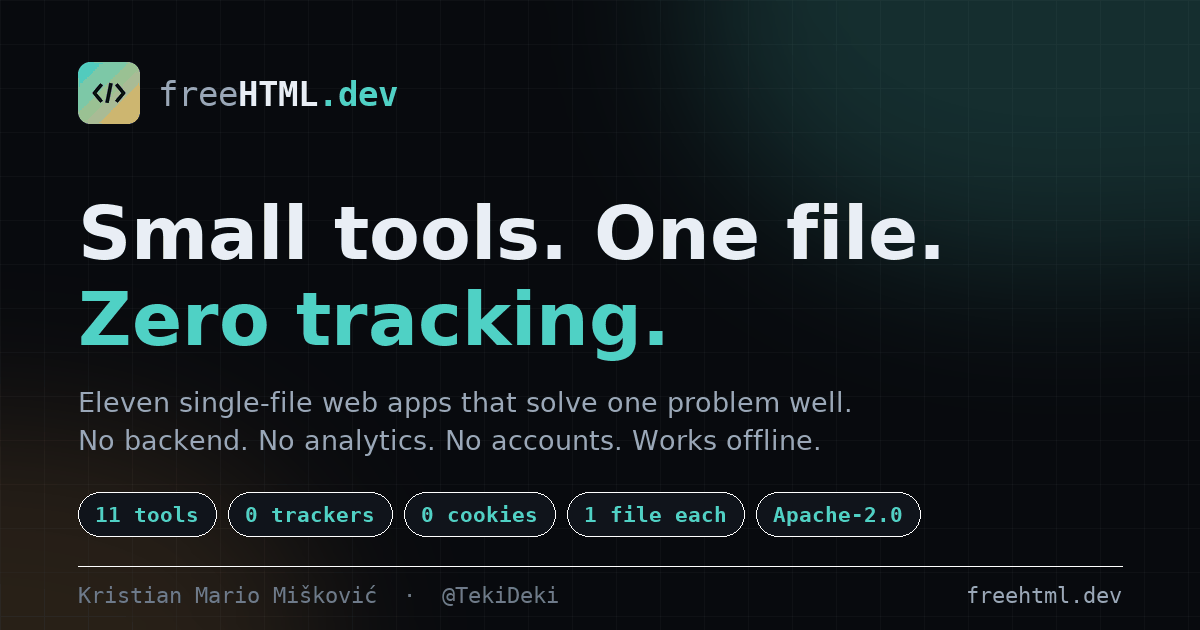
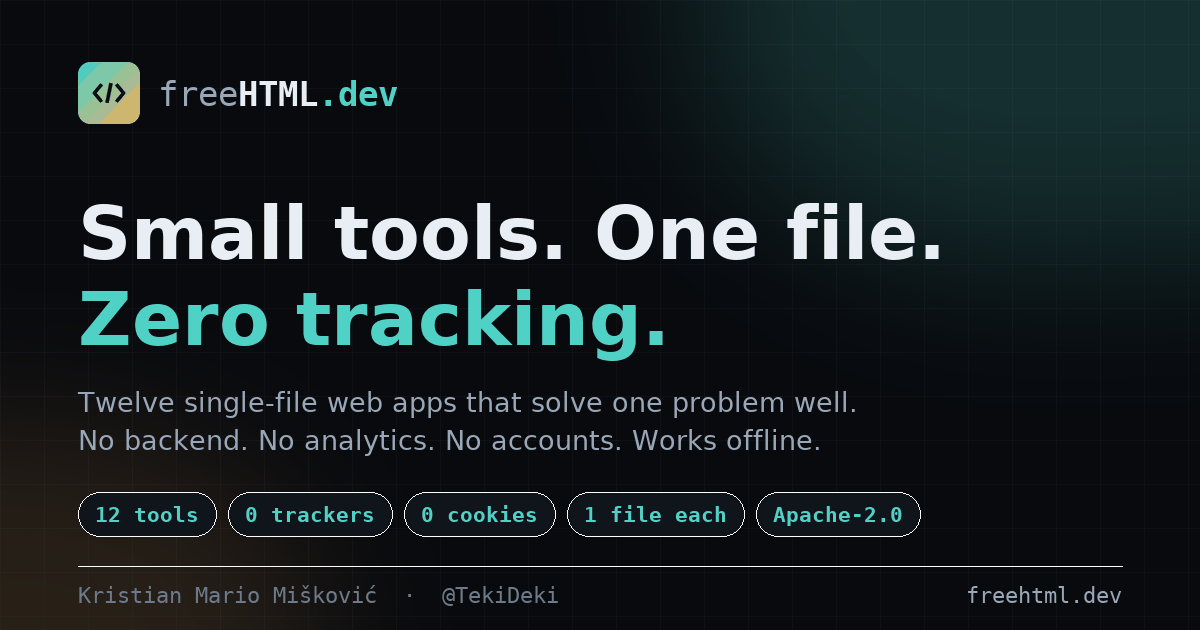
Tidy the hub: accurate counts, clean links, typography, no infra details
- README: repair two truncated license links and an en dash
- OG card and render script: "Eleven" / "11 tools" -> "Twelve" / "12 tools"
  (the hub lists 12 tools); only og.png changes, icons are byte-identical
- Remove long dashes from 404.html, _headers and the Cloudflare guide;
  the test suite now fails on U+2014 in README, site/ and docs/
- Cloudflare guide rewritten as a generic runbook: server IP, hosting
  provider, cPanel details and the dated DNS log are replaced with
  placeholders
- docs/unit-atlas.md: state what the hub suite actually checks; the
  787-case converter suite lives in TekiDeki/Unit-Converter; the SW shell
  list includes icons and the OG card
- CI: drop a branch name that belongs to another repository

Changed region(s): [[0.0617, 0.6032, 0.7092, 0.6635]]

diff --git a/site/404.html b/site/404.html
@@ -3,8 +3,8 @@
 <head>
 <meta charset="utf-8">
 <meta name="viewport" content="width=device-width, initial-scale=1">
-<title>404 — this file does not exist · freeHTML.dev</title>
-<meta name="description" content="404 on freeHTML.dev. Nothing here — but the tools are one click away.">
+<title>404 - this file does not exist · freeHTML.dev</title>
+<meta name="description" content="404 on freeHTML.dev. Nothing here - but the tools are one click away.">
 <meta name="robots" content="noindex">
 <link rel="icon" href="/assets/favicon.svg" type="image/svg+xml">
 <script>

diff --git a/scripts/render-assets.py b/scripts/render-assets.py
@@ -152,12 +152,12 @@ def og() -> Image.Image:
 
     # lede
     f_p = font("DejaVuSans.ttf", 27)
-    d.text((78, 386), "Eleven single-file web apps that solve one problem well.", font=f_p, fill=MUTED)
+    d.text((78, 386), "Twelve single-file web apps that solve one problem well.", font=f_p, fill=MUTED)
     d.text((78, 424), "No backend. No analytics. No accounts. Works offline.", font=f_p, fill=MUTED)
 
     # pills
     f_pill = font("DejaVuSansMono-Bold.ttf", 21)
-    pills = ["11 tools", "0 trackers", "0 cookies", "1 file each", "Apache-2.0"]
+    pills = ["12 tools", "0 trackers", "0 cookies", "1 file each", "Apache-2.0"]
     x = 78
     y = 492
     for label in pills:

diff --git a/docs/cloudflare-pages-deploy.md b/docs/cloudflare-pages-deploy.md
@@ -1,142 +1,115 @@
-# freehtml.dev → Cloudflare Pages · ghid de deploy
+# freeHTML.dev - Cloudflare, ghid de deploy
 
-Ghid pentru mutarea sitului din `site/` pe Cloudflare Pages, cu domeniul `freehtml.dev`.
-Tot ce e mai jos e verificat pe DNS-ul public la data de **2026-10-15**.
+Ghid pentru publicarea sitului din `site/` pe Cloudflare, pentru domeniul `freehtml.dev`.
 
----
+Valorile specifice infrastructurii (IP-uri, furnizorul de hosting, serverul de e-mail) nu sunt scrise în repository. Acolo unde apar, folosește placeholderele din tabelul de mai jos.
 
-## 0. Starea reală a domeniului (înainte să atingi ceva)
+| Placeholder | Ce reprezintă |
+|---|---|
+| `<IP-MAIL>` | adresa IPv4 a serverului de e-mail, cea din înregistrarea `A mail` din zona veche |
+| `<NS-VECHI-1>`, `<NS-VECHI-2>` | nameserverele actuale ale domeniului, la registrator |
+| `<NS-CF-1>`, `<NS-CF-2>` | nameserverele primite de la Cloudflare la adăugarea zonei |
 
-| Ce | Valoare curentă | Ce înseamnă |
-|---|---|---|
-| Nameservere | `ns3.extreme-prohosting.com`, `ns4.extreme-prohosting.com` | Zona **NU** e încă pe Cloudflare. Domeniul e administrat de extreme-prohosting. |
-| `A @` | `176.9.52.113` (Hetzner) | Un server de hosting clasic răspunde acum pe domeniu. |
-| `A mail` | `176.9.52.113` | Același server. |
-| `MX` | `0 freehtml.dev` | **Emailul e live pe acest domeniu**, servit de același server. |
-| `TXT` (SPF) | `v=spf1 +a +mx +ip4:176.9.52.113 ~all` | Există configurare de email (SPF). Verifică și `_dmarc` / `default._domainkey` în panoul vechi. |
-
-**Consecința importantă:** migrarea nameserverelor nu e doar „pun situl pe Cloudflare”,
-ci o mutare care poate **opri emailul** dacă sari peste pasul 2. Fă pașii în ordine.
+**Regula de bază:** emailul se mută înainte de nameserverele. Fă pașii în ordinea de mai jos. Dacă sari peste pasul 2, migrarea poate opri e-mailul domeniului.
 
 ---
 
-## UPDATE 2026-10-15 — zona e ACTIVĂ pe Cloudflare. Trei lucruri de făcut acum
+## 0. Inventar înainte de orice modificare
 
-Verificat din DNS-ul public după activare:
+Înainte să atingi ceva, notează înregistrările existente din panoul DNS actual:
 
-| Înregistrare | Ce am găsit | Corect |
-|---|---|---|
-| `SOA` | `carl.ns.cloudflare.com` | ✅ zona e activă (NS-ul la parent `.dev` se propagă încă câteva ore — normal) |
-| `A mail` | `104.21.38.92` / `172.67.221.122` = **IP-uri de proxy Cloudflare** | ❌ înregistrarea `mail` a fost importată **proxată (nor portocaliu)**. SMTP-ul nu merge prin proxy → **pune-o DNS-only (nor gri)** |
-| `MX` | `0 freehtml.dev` (apex, proxat) | ❌ schimbă-l în `mail.freehtml.dev`, prioritate `0` |
-| `TXT` SPF | `v=spf1 +a +mx +ip4:176.9.52.113 ~all` | ✅ rămâne valid și după corecții (`+mx` și `+ip4` acoperă serverul) |
-| `TXT _dmarc` | `v=DMARC1; p=none;` | ✅ importat corect |
-| `TXT default._domainkey` | cheia DKIM completă | ✅ importat corect — emailul semnat continuă să funcționeze |
-| `A @` | proxat, încă `176.9.52.113` dedesubt | ⏳ se înlocuiește cu CNAME-ul Pages la pasul 6 |
-
-**De făcut în dashboard, în ordinea asta (2 minute):**
-
-1. **DNS → Records → `mail`** → Edit → **Proxy status: OFF (DNS only)** → Save.
-   Trebuie să rezolve din nou la `176.9.52.113`, nu la IP-uri Cloudflare.
-2. **DNS → Records → `MX`** → Edit → Mail server: `mail.freehtml.dev`, prioritate `0` → Save.
-3. Test: `dig MX freehtml.dev +short` → `0 mail.freehtml.dev`;
-   `dig A mail.freehtml.dev +short` → `176.9.52.113`. Trimite-ți un email de test
-   (Gmail → tine) și confirmă livrarea.
-
-Abia după ce emailul e verde treci la pasul 5 (proiectul Pages) și pasul 6 (custom domain) —
-pentru că pasul 6 înlocuiește `A @` cu un CNAME proxat, moment din care un MX spre apex
-ar fi fost oricum imposibil.
-
-### ✅ Rezultat verificat (2026-10-15, seara)
-
-Corecțiile aplicate: `mail` = A `176.9.52.113` DNS-only (TTL 300), MX `@` → `mail.freehtml.dev`
-prioritate 0, cele 9 subdomenii cPanel trecute pe DNS-only, SSL/TLS = Full.
-**Email de test livrat cu succes** → calea de mail e confirmată funcțional.
-
-Rămâne de îmbunătățit când e liniște (nu blochează nimic):
-- PTR-ul IP-ului e generic (`server2.extreme-prohosting.com`); ideal ar fi `mail.freehtml.dev`
-  (se cere la hosting, nu din Cloudflare) — rată mai bună de livrare către Gmail/Outlook;
-- SRV-urile caldav/cardav + TXT-urile `path=/` țintesc apex-ul: de șters sau re-țintit spre
-  `mail` după migrarea sitului, dacă nu folosești calendare/contacte cPanel.
+| Înregistrare | De ce contează |
+|---|---|
+| `A @` | serverul care răspunde acum pe domeniu |
+| `A mail` | serverul de e-mail (`<IP-MAIL>`), trebuie să rămână DNS-only |
+| `MX` | serverul care primește e-mailul domeniului |
+| `TXT` SPF | autorizează serverele care trimit e-mail |
+| `TXT _dmarc` și `TXT default._domainkey` | semnătura și politica DMARC/DKIM, dacă există |
+| subdomeniile de servicii (calendar, contacte, webmail) | de verificat dacă sunt folosite |
 
 ---
 
 ## 1. Pas cu pas
 
-### Pasul 1 — Adaugă zona în Cloudflare
+### Pasul 1 - Adaugă zona în Cloudflare
 
-1. În dashboard: **Websites → Add a site** → `freehtml.dev` → plan **Free** (e suficient pentru tot ce urmează).
-2. Cloudflare scanează DNS-ul existent și importă înregistrările (`A`, `MX`, `TXT`).
-3. **Nu apăsa încă pe „Done / Continue” la final** — mai întâi pasul 2.
+1. În dashboard: **Websites → Add a site** → `freehtml.dev` → planul **Free**.
+2. Cloudflare scanează DNS-ul existent și importă înregistrările.
+3. **Nu apăsa încă pe „Done / Continue” la final.** Mai întâi fă pasul 2.
 
-### Pasul 2 — Salvează emailul (obligatoriu, înainte de mutarea NS)
+### Pasul 2 - Salvează e-mailul (obligatoriu, înainte de mutarea nameserverelor)
 
-În **DNS → Records** (zona proaspăt importată):
+În **DNS → Records**, pentru zona proaspăt importată:
 
-1. Adaugă/verifică: `A  mail  176.9.52.113`  cu **Proxy OFF** (nor gri, „DNS only”).
-   Emailul nu poate trece niciodată prin proxy-ul Cloudflare — SMTP-ul are nevoie de IP-ul real.
-2. Schimbă înregistrarea `MX` din `freehtml.dev` în `mail.freehtml.dev`, prioritate `0`.
-   *De ce:* după migrare, apex-ul (`freehtml.dev`) devine un CNAME aplatizat către Pages, proxat.
-   Un `MX` care arată spre o înregistrare proxată nu funcționează — serverele de mail nu pot
-   livra SMTP către IP-urile de proxy Cloudflare.
-3. Păstrează `TXT` cu SPF așa cum e (`+ip4:176.9.52.113` acoperă serverul indiferent de nume).
-   Dacă în panoul vechi există și `DKIM` (`default._domainkey.freehtml.dev` etc.) sau `_dmarc`,
-   copiază-le manual în Cloudflare — scanerul nu le vede întotdeauna.
-4. Verificare după pasul 4: `dig MX freehtml.dev +short` trebuie să dea `0 mail.freehtml.dev`,
-   iar `dig A mail.freehtml.dev +short` trebuie să dea `176.9.52.113`. Trimite-ți un email de test.
+1. Verifică `A mail` → `<IP-MAIL>` cu **Proxy OFF** (nor gri, „DNS only”).
+   Traficul SMTP nu trece prin proxy-ul Cloudflare, deci are nevoie de IP-ul real.
+2. Schimbă `MX` din `freehtml.dev` în `mail.freehtml.dev`, prioritate `0`.
+   *De ce:* după migrare, apexul (`freehtml.dev`) devine o înregistrare proxată către Pages.
+   Un `MX` care arată spre o înregistrare proxată nu funcționează, pentru că serverele de e-mail
+   nu pot livra SMTP către IP-urile proxy-ului Cloudflare.
+3. Păstrează SPF așa cum e, dacă `+ip4:<IP-MAIL>` sau `+mx` acoperă serverul. Copiază manual în Cloudflare
+   înregistrările DKIM (`default._domainkey`) și DMARC (`_dmarc`), dacă există. Scanerul nu le vede întotdeauna.
+4. Verificare, după pasul 4 (când propagarea e gata):
+   - `dig MX freehtml.dev +short` → `0 mail.freehtml.dev`
+   - `dig A mail.freehtml.dev +short` → `<IP-MAIL>`
 
-### Pasul 3 — Pregătește apex-ul pentru Pages
+   Trimite un e-mail de test și confirmă livrarea (inclusiv în Gmail sau Outlook).
 
-- Înregistrarea `A @ → 176.9.52.113` importată de Cloudflare **intră în conflict** cu custom domain-ul
-  Pages. O ștergi la pasul 5, când Cloudflare îți cere explicit asta (îți arată el care).
-- Până atunci, las-o proxată OFF sau ON — nu contează, situl vechi rămâne accesibil.
+### Pasul 3 - Pregătește apexul pentru Pages
 
-### Pasul 4 — Mută nameserverele la registrator
+- Înregistrarea `A @` importată de Cloudflare intră în conflict cu domeniul personalizat al Pages.
+  O ștergi la pasul 6, când Cloudflare îți cere explicit asta și îți arată care înregistrare.
+- Până atunci, poți lăsa `A @` cu proxy OFF sau ON. Situl vechi rămâne accesibil.
 
-1. Cloudflare îți dă doi nameserveri (ex. `anna.ns.cloudflare.com` / `bob.ns.cloudflare.com`).
-2. În panoul unde e cumpărat/administrat domeniul (extreme-prohosting sau registratorul),
-   înlocuiește `ns3/ns4.extreme-prohosting.com` cu cei doi de la Cloudflare.
-3. Dacă registratorul are **DNSSEC** activat pe `.dev`: dezactivează-l înainte de mutare,
-   apoi reactivează-l din Cloudflare (îți dă DS records noi). Altfel domeniul poate rezolva „broken”.
-4. Propagare: de obicei minute; oficial până la 24 h. Verifică cu `dig NS freehtml.dev +short`.
+### Pasul 4 - Mută nameserverele la registrator
 
-### Pasul 5 — Creează proiectul Pages din acest repo
+1. Cloudflare îți dă doi nameserveri (`<NS-CF-1>`, `<NS-CF-2>`).
+2. În panoul unde e administrat domeniul, înlocuiește `<NS-VECHI-1>` și `<NS-VECHI-2>` cu cei de la Cloudflare.
+3. Dacă registratorul are **DNSSEC** activat pe `.dev`, dezactivează-l înainte de mutare, apoi reactivează-l
+   din Cloudflare (care îți dă înregistrările DS noi). Altfel, domeniul poate rezolva ca „broken”.
+4. Propagarea durează de obicei minute, oficial până la 24 de ore. Verifică cu `dig NS freehtml.dev +short`.
+
+### Pasul 5 - Creează proiectul Pages din acest repository
 
 **Workers & Pages → Create application → Pages → Connect to Git**
 
 | Câmp | Valoare |
 |---|---|
 | Repository | `TekiDeki/TekiDeki` |
-| Production branch | `main` (după ce branch-ul `arena/…` e combinat în `main`) |
+| Production branch | `main` |
 | Framework preset | `None` |
 | **Root directory** | `site` |
-| Build command | *(gol — nu există build step, e HTML curat)* |
+| Build command | *(gol: nu există pas de build, e HTML static)* |
 | Build output directory | *(gol)* |
 
-Deploy. Primești imediat `https://<nume-proiect>.pages.dev`, cu `_headers`, `_redirects`,
-`robots.txt`, `sitemap.xml` și `404.html` deja active — nu trebuie configurat nimic suplimentar.
+Deploy. Primești imediat o adresă `https://<nume-proiect>.pages.dev`. `_headers`, `_redirects`,
+`robots.txt`, `sitemap.xml` și `404.html` sunt active fără configurare suplimentară.
 
-> **Variantă fără Git** (deploy manual de pe laptopul tău):
+> **Notă:** repository-ul conține și `wrangler.jsonc`, cu `assets.directory` pe `./site`, adică o configurație de Workers cu assets.
+> Înainte de a conecta proiectul, confirmă în dashboard ce produs Cloudflare deservește `main` (Pages sau Workers),
+> ca să nu existe două deploy-uri concurente pentru același site.
+
+> **Variantă fără Git** (deploy manual, de pe calculatorul tău):
 > ```bash
 > npx wrangler login
 > npx wrangler pages deploy site --project-name freehtml-dev
 > ```
-> Fiecare rulare publică o versiune nouă; rollback = un click în dashboard.
+> Fiecare rulare publică o versiune nouă. Rollback-ul e un click în dashboard.
 
-### Pasul 6 — Leagă domeniul
+### Pasul 6 - Leagă domeniul
 
 1. În proiectul Pages: **Custom domains → Add custom domain** → `freehtml.dev`.
-2. Cloudflare detectează conflictul cu `A @` și îți propune să-l înlocuiască cu CNAME-ul către
+2. Cloudflare detectează conflictul cu `A @` și propune înlocuirea lui cu un CNAME către
    `<nume-proiect>.pages.dev` (apex flattening). Acceptă.
-3. SSL: Universal SSL se emite singur în câteva minute; TLS 1.3 + HTTP/3 active automat.
-4. **www:** recomand o Redirect Rule (nu un al doilea custom domain):
+3. SSL: certificatul Universal SSL se emite singur în câteva minute. TLS 1.3 și HTTP/3 sunt active automat.
+4. **www:** recomandat este o regulă de redirect (nu un al doilea domeniu personalizat):
    **Rules → Redirect Rules → Create rule**
    - *When:* `Hostname` `equals` `www.freehtml.dev`
-   - *Then:* `Static` → `https://freehtml.dev/`, păstrează path + query, status **301**
-   Dacă observi că Pages răspunde înainte de regulă, alternativ: adaugă și `www.freehtml.dev`
-   ca al doilea custom domain în Pages.
+   - *Then:* `Static` → `https://freehtml.dev/`, cu path și query păstrate, status **301**
 
-### Pasul 7 — Checklist final
+   Dacă Pages răspunde înaintea regulii, alternativ adaugă `www.freehtml.dev` ca al doilea domeniu personalizat în Pages.
+
+### Pasul 7 - Verificare finală
 
 ```bash
 # situl răspunde și trimite header-ele din _headers
@@ -148,38 +121,34 @@ curl -sI https://freehtml.dev/cheaper | grep -i location
 # 404-ul personalizat
 curl -s -o /dev/null -w "%{http_code}\n" https://freehtml.dev/nu-exista
 
-# emailul a supraviețuit mutării
+# e-mailul a supraviețuit mutării
 dig MX freehtml.dev +short          # → 0 mail.freehtml.dev
-dig A  mail.freehtml.dev +short     # → 176.9.52.113  (și proxy OFF în dashboard)
+dig A  mail.freehtml.dev +short     # → <IP-MAIL>, cu proxy OFF în dashboard
 ```
 
-Apoi: PageSpeed Insights (țintă 100/100/100/100 — situl nu are niciun request terț)
-și ssllabs.com (țintă A+).
+Apoi: PageSpeed Insights (țintă 100/100/100/100; situl nu are niciun request terț) și ssllabs.com (țintă A+).
 
 ---
 
-## 2. Ce primești gratis de la Cloudflare aici
+## 2. Ce primești gratuit de la Cloudflare
 
-- **Pages:** bandwidth nelimitat, 500 build-uri/lună, deploy-uri cu URL propriu + rollback.
-- **Edge:** CDN global, Brotli, HTTP/3, TLS 1.3, DDoS basic — fără niciun config.
-- **`_headers` / `_redirects`:** respectate automat la fiecare deploy (CSP-ul și 302-urile din repo).
-- **Zone analytics:** statistici de trafic *server-side*, fără niciun script în pagină —
-  singura formă de „analitică” care nu contrazice principiul „zero tracking”.
-  (Cloudflare Web Analytics ar băga un script terț în pagină → nu-l folosi.)
-- **Redirect Rules / Cache Rules:** pentru www→apex și orice scurtătură viitoare.
+- **Pages:** lățime de bandă nelimitată, 500 de build-uri pe lună, deploy-uri cu URL propriu și rollback.
+- **Edge:** CDN global, Brotli, HTTP/3, TLS 1.3 și protecție DDoS de bază, fără configurare.
+- **`_headers` și `_redirects`:** respectate automat la fiecare deploy (CSP-ul și redirecturile 302 din repository).
+- **Statistici de zonă:** trafic măsurat pe server, fără niciun script în pagină. Este singura formă de analitică
+  compatibilă cu principiul „zero tracking”. Cloudflare Web Analytics adaugă un script terț în pagină, deci nu se folosește.
+- **Redirect Rules și Cache Rules:** pentru www → apex și pentru orice scurtătură viitoare.
 
 ## 3. De ce scurtăturile din `_redirects` sunt 302, nu 301
 
-Uneltele rămân canonice pe `tekideki.github.io/…`, unde au service worker, manifest și
-instalare PWA deja funcționale. Un 301 ar învăța browserele și Google că adresa de pe
-GitHub Pages „a dispărut”. Când (dacă) muți uneltele *pe* freehtml.dev, ștergi liniile
-corespunzătoare din `_redirects` și le servești direct din `site/`.
+Uneltele rămân canonice pe `tekideki.github.io/...`, unde sunt deja funcționale service worker-ul, manifestul și
+instalarea ca PWA. Un 301 ar învăța browserele și motoarele de căutare că adresa de pe GitHub Pages a dispărut.
+Când (dacă) o unealtă se mută pe `freehtml.dev`, se șterg liniile ei din `_redirects` și se servește direct din `site/`.
 
 ## 4. Rollback
 
-- **Sit:** fiecare deploy Pages are URL propriu și buton de *Restore*; iar repo-ul e sursa
-  adevărului (`site/` + branch istoric).
-- **Domeniu:** nameserverele pot fi puse înapoi pe `ns3/ns4.extreme-prohosting.com` oricând;
-  vechiul server rămâne neatins până confirmi că emailul și situl merg de pe Cloudflare.
-- **Email:** dacă ceva e în neregulă după mutare, corectezi MX/A `mail` în Cloudflare DNS
-  (propagare în minute, TTL mic recomandat: 300).
+- **Sit:** fiecare deploy Pages are URL propriu și buton de *Restore*. Repository-ul este sursa adevărului (`site/` din `main`).
+- **Domeniu:** nameserverele vechi (notate la pasul 0) pot fi puse înapoi oricând. Serverul vechi rămâne neatins
+  până când e-mailul și situl merg de pe Cloudflare.
+- **E-mail:** dacă ceva nu merge după mutare, corectezi `MX` și `A mail` în Cloudflare DNS.
+  Propagarea durează câteva minute, cu TTL mic recomandat (300 de secunde).

diff --git a/docs/unit-atlas.md b/docs/unit-atlas.md
@@ -59,7 +59,7 @@ Nu există cereri pentru fonturi, biblioteci, API-uri sau analytics în aplicaț
 
 Linkurile partajate includ valoarea și unitățile în fragment. Nu sunt trimise serverului ca parte a cererii HTTP, dar destinatarul linkului le vede. Descărcările HTML nu includ datele utilizatorului.
 
-Fișierul descărcat funcționează offline fără service worker. La găzduire pe GitHub Pages, `sw.js` din repository-ul dedicat cache-uie shell-ul aplicației și servește pagina din cache când rețeaua lipsește. Service worker-ul sitului cache-uie doar pagina principală, pagina 404 și manifestul: nu livrează convertorul și nu cache-uie instrumentele externe. Nu se promite instalarea convertorului ca PWA separat.
+Fișierul descărcat funcționează offline fără service worker. La găzduire pe GitHub Pages, `sw.js` din repository-ul dedicat cache-uie shell-ul aplicației și servește pagina din cache când rețeaua lipsește. Service worker-ul sitului cache-uiește doar shell-ul hub-ului (pagina principală, pagina 404, manifestul, iconițele și cardul Open Graph): nu livrează convertorul și nu cache-uiește instrumentele externe. Nu se promite instalarea convertorului ca PWA separat.
 
 ## Verificare
 
@@ -93,10 +93,10 @@ npm test
 
 Opțional: `ATLAS_BASE` schimbă adresa serverului; `ATLAS_CHROMIUM_PATH` alege un executabil Chromium existent.
 
-Suita verifică 787 de perechi de conversie dus-întors, valori de referință, parsarea numerelor, traduceri, salvare, clipboard, linkuri, HTML portabil fără rețea, shell-ul offline, patru lățimi de ecran (320, 375, 768 și 1440 px) și audit axe WCAG A/AA pe ambele teme și dialog. Auditul automat nu înlocuiește evaluarea manuală cu tehnologii asistive. Workflow-ul GitHub rulează aceeași suită la PR și push relevant.
+Suita din repository-ul dedicat verifică 787 de perechi de conversie dus-întors, valori de referință, parsarea numerelor, traduceri, salvare, clipboard, linkuri, HTML portabil fără rețea, shell-ul offline, patru lățimi de ecran (320, 375, 768 și 1440 px) și audit axe WCAG A/AA pe ambele teme și dialog. Auditul automat nu înlocuiește evaluarea manuală cu tehnologii asistive. Suita din acest repository verifică integrarea din pagina principală (vezi mai jos); workflow-ul GitHub rulează suita relevantă la PR și push.
 
 În acest repository, suita verifică pagina principală: cele 12 carduri, căutarea Unit Atlas în cele patru limbi, scurtătura `/convert/`, cache-ul shell-ului și faptul că pagina principală nu mai conține copia convertorului.
 
 ## Convenție de tipografie
 
-În tot ce se scrie pentru acest proiect se folosește „-” (cratime), nu linia lungă. Fișierul HTML livrat nu conține cratime lungă (U+2014), iar suita de teste verifică acest lucru la fiecare descărcare.
+În tot ce se scrie pentru acest proiect se folosește „-” (cratime), nu linia lungă. Fișierele din `site/`, `docs/` și `README.md` nu conțin cratimă lungă (U+2014). Suita de teste verifică acest lucru la fiecare rulare.

diff --git a/README.md b/README.md
@@ -159,7 +159,7 @@ Generate paragraphs, sentences or an exact word count. Copy the text or download
 
 Generate passwords locally with Web Crypto. Choose length and character sets, reveal only when needed, copy or export TXT after a plaintext warning. No saved passwords, accounts or tracking.
 
-8–128 characters · batches up to 100 · 10 interface languages · estimated entropy · light/dark theme · offline PWA · HTTPS/localhost required
+8-128 characters · batches up to 100 · 10 interface languages · estimated entropy · light/dark theme · offline PWA · HTTPS/localhost required
 
 [![Live demo](https://img.shields.io/badge/live-demo-success?style=flat-square&logo=githubpages&logoColor=white)](https://tekideki.github.io/Password-Generator/)
 [![Repo](https://img.shields.io/badge/repo-source-181717?style=flat-square&logo=github&logoColor=white)](https://github.com/TekiDeki/Password-Generator)
@@ -177,7 +177,7 @@ QR + EAN/UPC/Code 128/DataMatrix · Open Food Facts enrichment with local cache 
 
 [![Live demo](https://img.shields.io/badge/live-demo-success?style=flat-square&logo=githubpages&logoColor=white)](https://tekideki.github.io/QR-Scanner/)
 [![Repo](https://img.shields.io/badge/repo-source-181717?style=flat-square&logo=github&logoColor=white)](https://github.com/TekiDeki/QR-Scanner)
-[![License](https://img.shields.io/badge/license-Apache%202.0-blue?style=flat-square)](https://github.com/TekiDeki/QR-Scanner/blob/main/LI
+[![License](https://img.shields.io/badge/license-Apache%202.0-blue?style=flat-square)](https://github.com/TekiDeki/QR-Scanner/blob/main/LICENSE)
 
 <br>
 
@@ -191,7 +191,7 @@ Batch up to 60 images · EXIF and GPS stripped · quality and max width · JPEG 
 
 [![Live demo](https://img.shields.io/badge/live-demo-success?style=flat-square&logo=githubpages&logoColor=white)](https://tekideki.github.io/Image-Compressor/)
 [![Repo](https://img.shields.io/badge/repo-source-181717?style=flat-square&logo=github&logoColor=white)](https://github.com/TekiDeki/Image-Compressor)
-[![License](https://img.shields.io/badge/license-Apache%202.0-blue?style=flat-square)](https://github.com/TekiDeki/Image-Compressor/blob/main/LICENSE)CENSE)
+[![License](https://img.shields.io/badge/license-Apache%202.0-blue?style=flat-square)](https://github.com/TekiDeki/Image-Compressor/blob/main/LICENSE)
 
 ---
 
